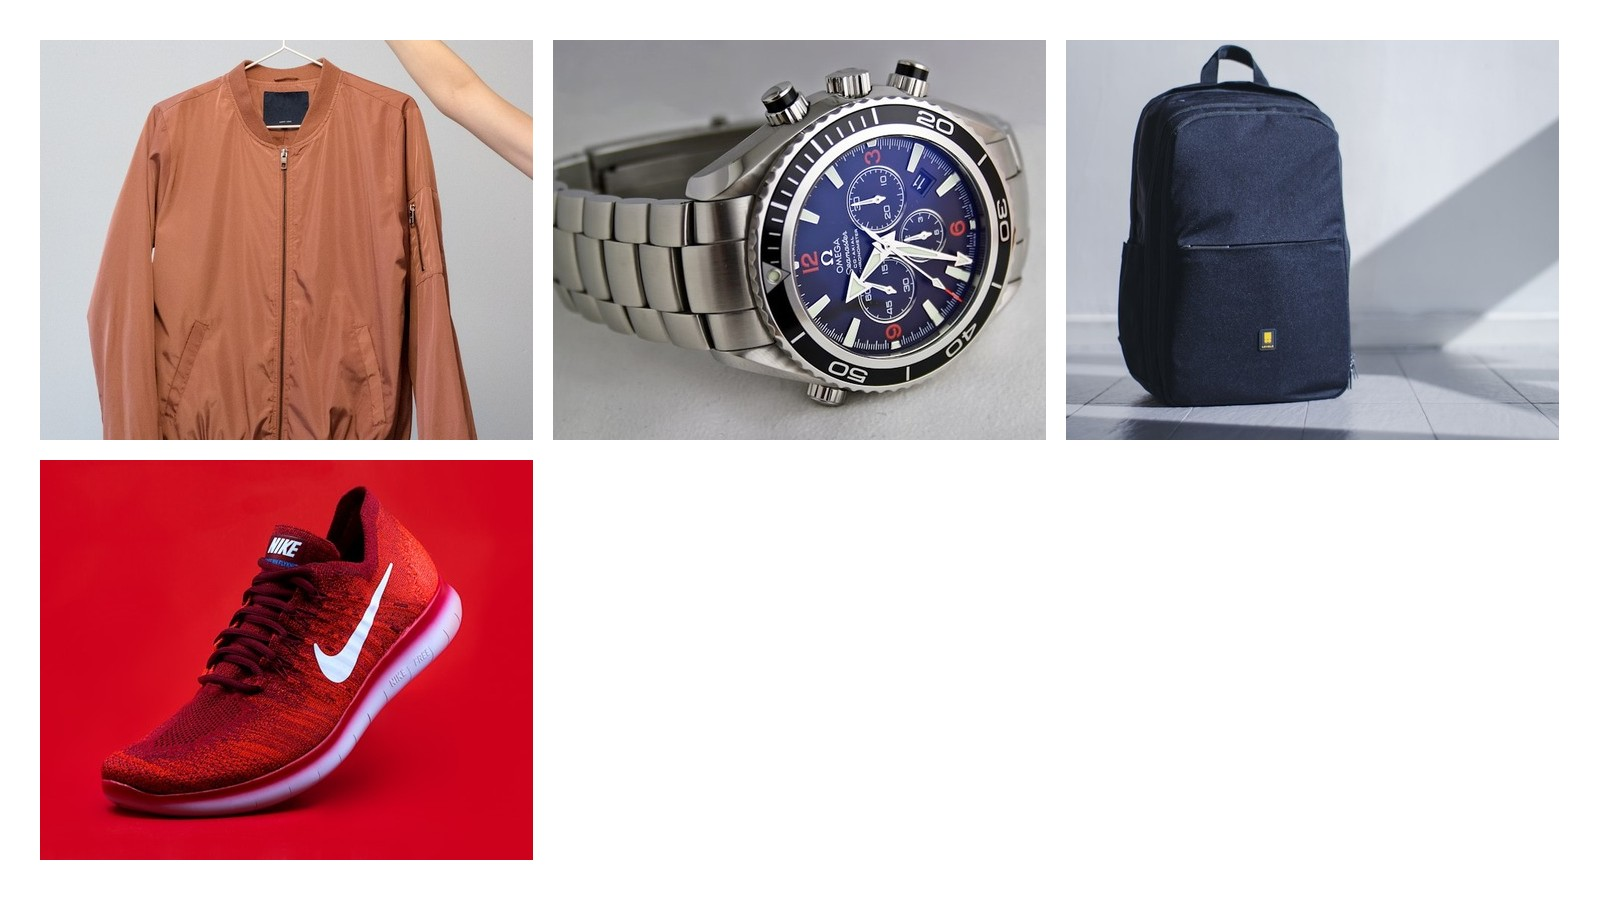
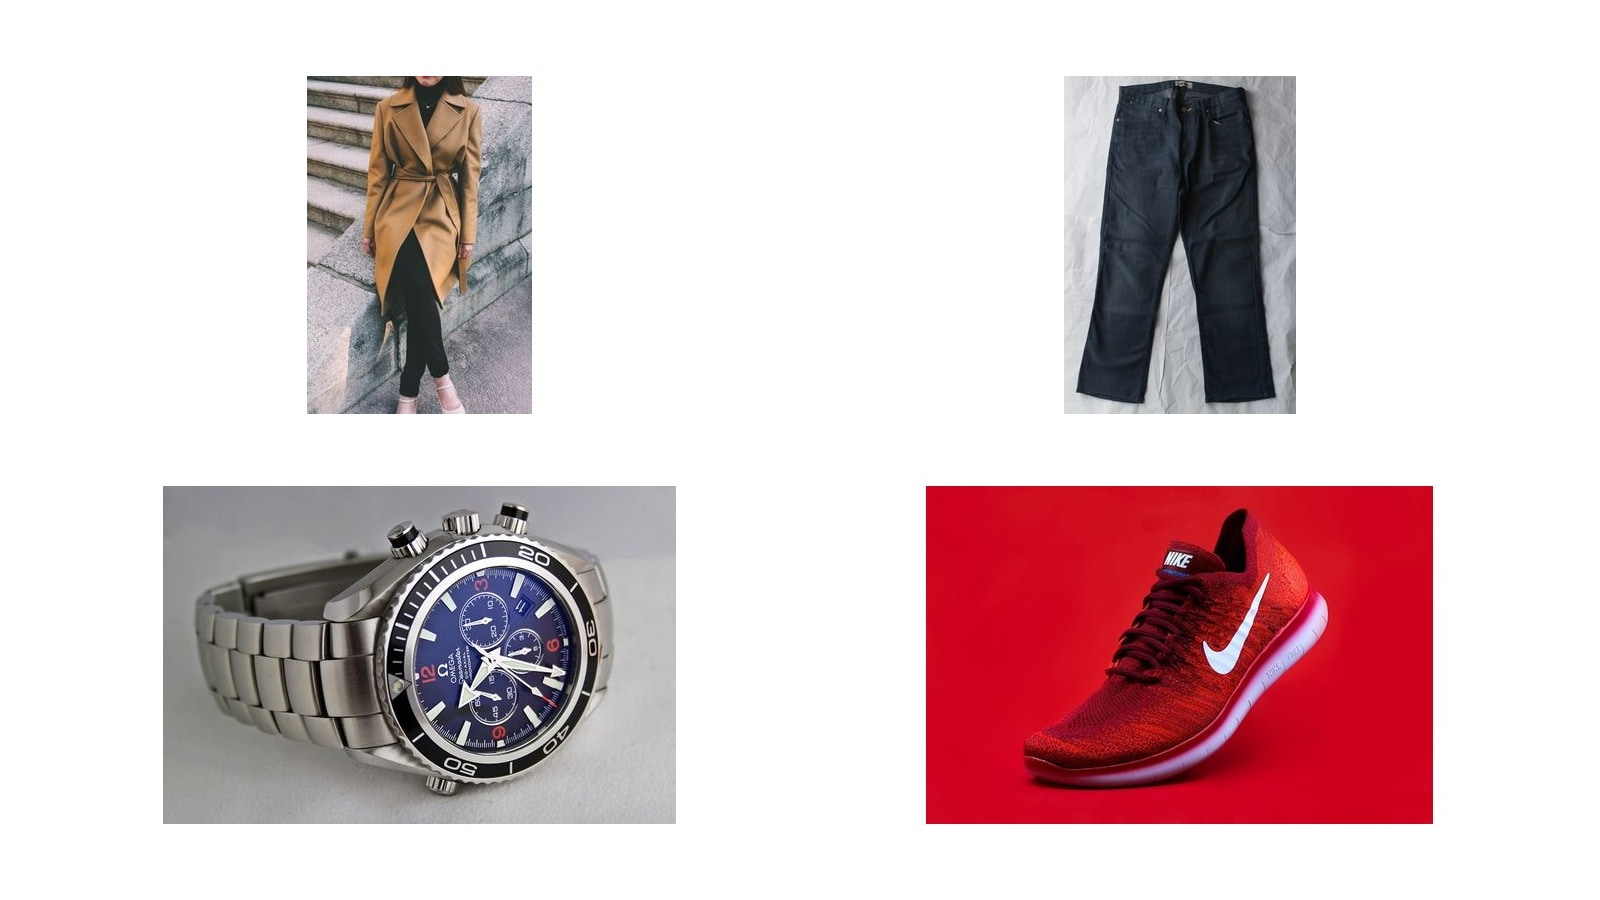
fix(looks): full-image composite with contain layout, cohesive sample look, white product tiles

diff --git a/scripts/generate-look-composites.js b/scripts/generate-look-composites.js
@@ -1,11 +1,10 @@
 #!/usr/bin/env node
 // ES module — generate composite look images for The Cache
-// Reads src/content/looks/*.md, composites product images onto 1600x900 white canvas
-// Outputs to public/looks/[slug].jpg
+// Each product image is contained (full image, no cropping) on a white tile
+// Tiles are arranged on a 1600x900 white canvas
 
 import sharp from 'sharp';
 import { readdir, readFile, mkdir } from 'fs/promises';
-import { existsSync } from 'fs';
 import path from 'path';
 import { fileURLToPath } from 'url';
 
@@ -16,29 +15,28 @@ const OUTPUT_DIR = path.join(ROOT, 'public/looks');
 
 const CANVAS_W = 1600;
 const CANVAS_H = 900;
-const PADDING = 40;
-const TILE_GAP = 20;
+const OUTER_PAD = 48;   // padding around the whole grid
+const TILE_GAP  = 16;   // gap between tiles
+const INNER_PAD = 28;   // white breathing room inside each tile around the product image
 
-// Pastel white placeholder tile (PNG buffer)
+// White placeholder tile
 async function makePlaceholder(w, h) {
   return sharp({
-    create: { width: w, height: h, channels: 4, background: { r: 242, g: 240, b: 237, alpha: 1 } },
+    create: { width: w, height: h, channels: 3, background: { r: 255, g: 255, b: 255 } },
   }).png().toBuffer();
 }
 
-// Parse simple YAML frontmatter (--- block at top of .md)
+// Parse YAML frontmatter from .md file
 function parseFrontmatter(raw) {
   const match = raw.match(/^---\n([\s\S]*?)\n---/);
   if (!match) return {};
   const yaml = match[1];
   const result = {};
 
-  // Extract items array
   const itemsMatch = yaml.match(/items:\n([\s\S]*?)(?=\n\w|\n$|$)/);
   if (itemsMatch) {
-    const itemsBlock = itemsMatch[1];
     const items = [];
-    const itemBlocks = itemsBlock.split(/\n  - /).filter(Boolean);
+    const itemBlocks = itemsMatch[1].split(/\n  - /).filter(Boolean);
     for (const block of itemBlocks) {
       const item = {};
       const lines = block.replace(/^- /, '').split('\n');
@@ -51,25 +49,22 @@ function parseFrontmatter(raw) {
     result.items = items;
   }
 
-  // Extract scalar fields
   const scalarMatch = (key) => {
     const m = yaml.match(new RegExp(`^${key}:\\s*(.+)$`, 'm'));
     return m ? m[1].trim().replace(/^['"]|['"]$/g, '') : undefined;
   };
   result.title = scalarMatch('title');
-  result.slug = undefined; // derived from filename
   return result;
 }
 
-// Download image URL → Buffer (with timeout)
+// Fetch image URL → Buffer (8s timeout)
 async function fetchImage(url) {
   const ctrl = new AbortController();
   const timer = setTimeout(() => ctrl.abort(), 8000);
   try {
     const res = await fetch(url, { signal: ctrl.signal });
     if (!res.ok) throw new Error(`HTTP ${res.status}`);
-    const buf = await res.arrayBuffer();
-    return Buffer.from(buf);
+    return Buffer.from(await res.arrayBuffer());
   } catch {
     return null;
   } finally {
@@ -77,20 +72,54 @@ async function fetchImage(url) {
   }
 }
 
-// Fit-crop an image buffer into a tile of exact dimensions
-async function fitTile(buf, tileW, tileH) {
+// Fit image INSIDE tile dimensions with white padding — full image always visible, no cropping
+async function fitToTile(buf, tileW, tileH) {
   if (!buf) return makePlaceholder(tileW, tileH);
+
+  const productW = tileW - INNER_PAD * 2;
+  const productH = tileH - INNER_PAD * 2;
+
   try {
-    return await sharp(buf)
-      .resize(tileW, tileH, { fit: 'cover', position: 'centre' })
+    // Step 1: resize to fit entirely inside the product area (no cropping)
+    const resized = await sharp(buf)
+      .resize(productW, productH, { fit: 'inside', withoutEnlargement: false })
+      .toBuffer();
+
+    // Step 2: get actual dimensions after resize
+    const meta = await sharp(resized).metadata();
+    const imgW = meta.width;
+    const imgH = meta.height;
+
+    // Step 3: calculate padding to centre within tile
+    const padLeft  = Math.floor((tileW - imgW) / 2);
+    const padRight = tileW - imgW - padLeft;
+    const padTop   = Math.floor((tileH - imgH) / 2);
+    const padBottom = tileH - imgH - padTop;
+
+    // Step 4: extend with white to reach exact tile size
+    const tile = await sharp(resized)
+      .extend({ top: padTop, bottom: padBottom, left: padLeft, right: padRight,
+                background: { r: 255, g: 255, b: 255, alpha: 1 } })
+      .flatten({ background: { r: 255, g: 255, b: 255 } })
       .jpeg({ quality: 92 })
       .toBuffer();
+
+    return tile;
   } catch {
     return makePlaceholder(tileW, tileH);
   }
 }
 
-// Build composite for a single look file
+// Determine grid layout for n items
+function getLayout(n) {
+  if (n === 1) return { cols: 1, rows: 1 };
+  if (n === 2) return { cols: 2, rows: 1 };
+  if (n === 3) return { cols: 3, rows: 1 };
+  if (n === 4) return { cols: 2, rows: 2 };
+  if (n === 5) return { cols: 3, rows: 2 }; // 3 top, 2 bottom centred
+  return { cols: 3, rows: 2 }; // 6 = 3x2
+}
+
 async function buildComposite(filePath, slug) {
   const raw = await readFile(filePath, 'utf8');
   const { items, title } = parseFrontmatter(raw);
@@ -101,31 +130,38 @@ async function buildComposite(filePath, slug) {
   }
 
   const n = Math.min(items.length, 6);
-  const cols = n <= 3 ? n : 3;
-  const rows = Math.ceil(n / cols);
+  const { cols, rows } = getLayout(n);
 
-  // Compute tile dimensions
-  const totalW = CANVAS_W - PADDING * 2 - TILE_GAP * (cols - 1);
-  const totalH = CANVAS_H - PADDING * 2 - TILE_GAP * (rows - 1);
-  const tileW = Math.floor(totalW / cols);
-  const tileH = Math.floor(totalH / rows);
+  const gridW = CANVAS_W - OUTER_PAD * 2;
+  const gridH = CANVAS_H - OUTER_PAD * 2;
+  const tileW = Math.floor((gridW - TILE_GAP * (cols - 1)) / cols);
+  const tileH = Math.floor((gridH - TILE_GAP * (rows - 1)) / rows);
 
   console.log(`  Building "${title}" — ${n} items, ${cols}x${rows} grid (${tileW}x${tileH} tiles)`);
 
-  // Download all images in parallel
-  const rawBuffers = await Promise.all(items.slice(0, n).map((it) => fetchImage(it.image)));
+  const rawBuffers = await Promise.all(items.slice(0, n).map(it => fetchImage(it.image)));
+  const tiles = await Promise.all(rawBuffers.map(buf => fitToTile(buf, tileW, tileH)));
 
-  // Resize to tile dimensions
-  const tiles = await Promise.all(rawBuffers.map((buf) => fitTile(buf, tileW, tileH)));
-
-  // Build composite array for sharp
+  // For 5 items: top row of 3, bottom row of 2 centred
   const composites = [];
   for (let i = 0; i < n; i++) {
-    const col = i % cols;
-    const row = Math.floor(i / cols);
-    const left = PADDING + col * (tileW + TILE_GAP);
-    const top = PADDING + row * (tileH + TILE_GAP);
-    composites.push({ input: tiles[i], left, top });
+    let col, row;
+    if (n === 5 && i >= 3) {
+      // Bottom row: 2 items centred across 3-column grid
+      const bottomIndex = i - 3;
+      // Centre 2 tiles in a 3-col grid: offset by half a tile + half a gap
+      col = bottomIndex + 0.5;
+      row = 1;
+      const left = Math.round(OUTER_PAD + col * (tileW + TILE_GAP));
+      const top  = OUTER_PAD + row * (tileH + TILE_GAP);
+      composites.push({ input: tiles[i], left, top });
+    } else {
+      col = i % cols;
+      row = Math.floor(i / cols);
+      const left = OUTER_PAD + col * (tileW + TILE_GAP);
+      const top  = OUTER_PAD + row * (tileH + TILE_GAP);
+      composites.push({ input: tiles[i], left, top });
+    }
   }
 
   const outPath = path.join(OUTPUT_DIR, `${slug}.jpg`);
@@ -133,7 +169,7 @@ async function buildComposite(filePath, slug) {
     create: { width: CANVAS_W, height: CANVAS_H, channels: 3, background: { r: 255, g: 255, b: 255 } },
   })
     .composite(composites)
-    .jpeg({ quality: 90 })
+    .jpeg({ quality: 92, mozjpeg: true })
     .toFile(outPath);
 
   console.log(`  Saved → public/looks/${slug}.jpg`);
@@ -141,30 +177,22 @@ async function buildComposite(filePath, slug) {
 
 async function main() {
   await mkdir(OUTPUT_DIR, { recursive: true });
-
   let files;
   try {
     files = await readdir(LOOKS_DIR);
   } catch {
-    console.log('No looks directory found — skipping composite generation.');
+    console.log('No looks directory found — skipping.');
     return;
   }
 
-  const mdFiles = files.filter((f) => f.endsWith('.md'));
-  if (mdFiles.length === 0) {
-    console.log('No look files found — skipping.');
-    return;
-  }
+  const mdFiles = files.filter(f => f.endsWith('.md'));
+  if (mdFiles.length === 0) { console.log('No look files — skipping.'); return; }
 
   console.log(`Generating composites for ${mdFiles.length} look(s)...`);
   for (const file of mdFiles) {
-    const slug = file.replace('.md', '');
-    await buildComposite(path.join(LOOKS_DIR, file), slug);
+    await buildComposite(path.join(LOOKS_DIR, file), file.replace('.md', ''));
   }
   console.log('Done.');
 }
 
-main().catch((err) => {
-  console.error('Composite generation error:', err);
-  process.exit(1);
-});
+main().catch(err => { console.error(err); process.exit(1); });

diff --git a/src/content/looks/the-weekender.md b/src/content/looks/the-weekender.md
@@ -1,35 +1,35 @@
 ---
-title: The Weekender
-description: A relaxed but considered set for two days away — nothing excessive, nothing missing.
+title: The Autumn Standard
+description: Four considered pieces in camel, navy and tan. A palette that works without thinking about it.
 publishedDate: "2026-03-22"
 status: live
 featured: true
-season: Spring 2026
+season: Autumn 2026
 items:
-  - name: Cortez Jacket
-    brand: Arpenteur
+  - name: Wool Overcoat
+    brand: Drakes
     category: Outerwear
-    price: "£475"
-    buyUrl: https://arpenteur.net
-    image: https://images.unsplash.com/photo-1591047139829-d91aecb6caea?w=800&q=85
-  - name: Submariner Date
-    brand: Rolex
+    price: "£995"
+    buyUrl: https://drakes.com
+    image: https://images.unsplash.com/photo-1539533018447-63fcce2678e3?w=900&q=90&auto=format&fit=crop
+  - name: Orta Slim Chino
+    brand: Incotex
+    category: Trousers
+    price: "£265"
+    buyUrl: https://incotex.com
+    image: https://images.unsplash.com/photo-1624378439575-d8705ad7ae80?w=900&q=90&auto=format&fit=crop
+  - name: Tangente 38
+    brand: Nomos
     category: Watch
-    price: "£9,250"
-    buyUrl: https://rolex.com
-    image: https://images.unsplash.com/photo-1523170335258-f5ed11844a49?w=800&q=85
-  - name: M/S Backpack
-    brand: Mismo
-    category: Bag
-    price: "£395"
-    buyUrl: https://mismo.dk
-    image: https://images.unsplash.com/photo-1553062407-98eeb64c6a62?w=800&q=85
-  - name: 1461 Derby
-    brand: Dr. Martens
+    price: "£1,480"
+    buyUrl: https://nomos-glashuette.com
+    image: https://images.unsplash.com/photo-1523170335258-f5ed11844a49?w=900&q=90&auto=format&fit=crop
+  - name: Bourton Brogue
+    brand: Tricker's
     category: Footwear
-    price: "£149"
-    buyUrl: https://drmartens.com
-    image: https://images.unsplash.com/photo-1542291026-7eec264c27ff?w=800&q=85
+    price: "£595"
+    buyUrl: https://trickers.com
+    image: https://images.unsplash.com/photo-1542291026-7eec264c27ff?w=900&q=90&auto=format&fit=crop
 ---
 
-Four things that carry you through a weekend without overthinking. The Arpenteur jacket is a French workwear staple — the cut is generous, the cotton is dense, and it only improves with a few creases. The Submariner needs no introduction. The Mismo backpack holds two days of kit without bulk. The 1461 walks better with every mile.
+The overcoat earns its cost by doing most of the work. Underneath it, the Incotex chino in a stone that reads through every season. The Nomos Tangente — a clean white dial, no complications, no excuses. The Tricker's Bourton is the one pair of shoes worth having resoled. Four things. One palette. No decisions left to make.
